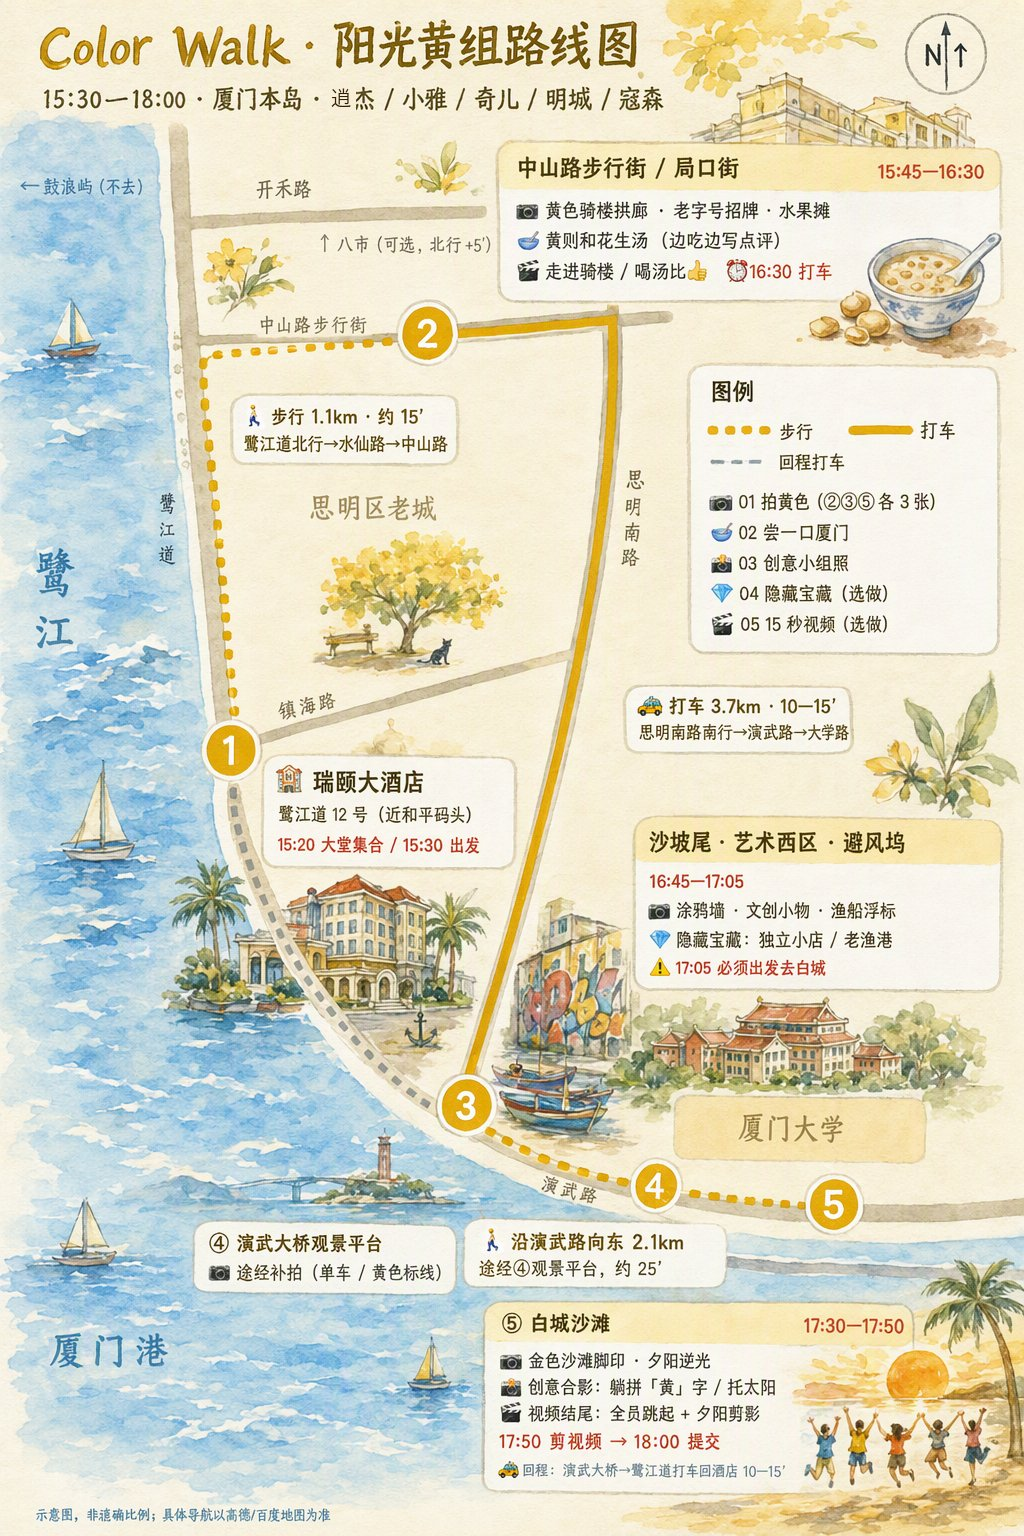
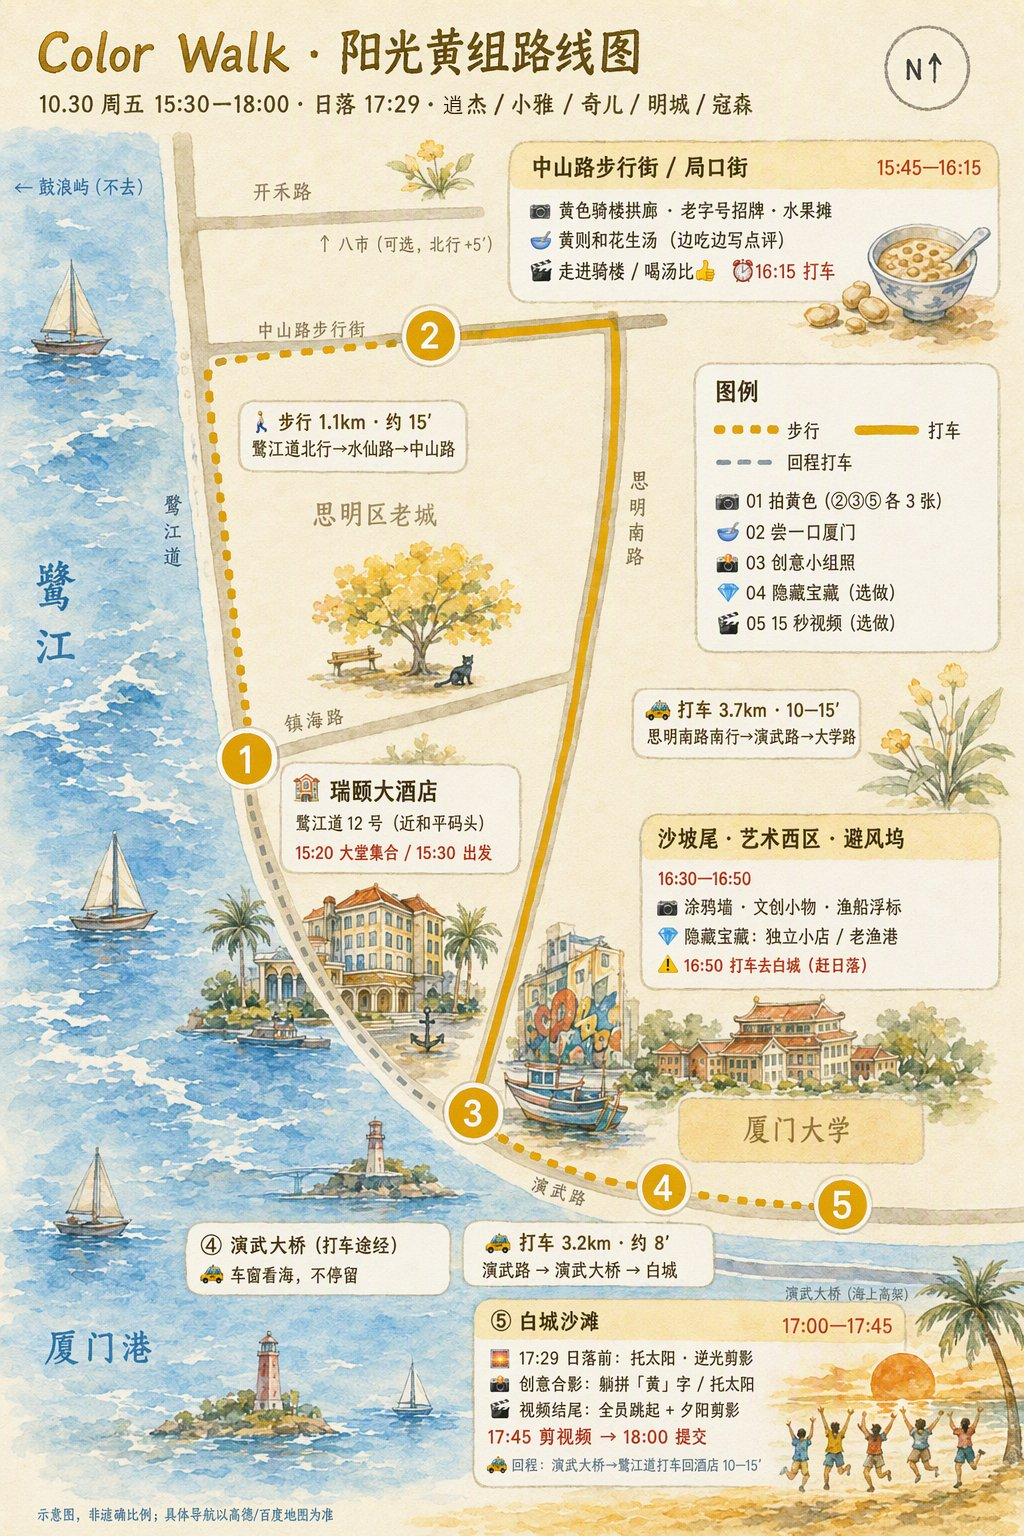
按 10.30 日落 17:29 调整时间线；沙坡尾→白城改打车；新增天气与携带清单

diff --git a/index.html b/index.html
@@ -104,6 +104,7 @@ a{color:inherit;text-decoration:none}
 .mem:last-child{border-bottom:0}
 .mem span{color:var(--sub);font-size:13px;text-align:right}
 .chk label{display:flex;gap:10px;align-items:center;padding:11px 14px;border-bottom:1px solid var(--line);font-size:14px}
+.wx{display:grid;grid-template-columns:repeat(5,1fr);gap:4px;margin-top:10px;text-align:center}.wx div{background:#fffbea;border-radius:10px;padding:6px 2px}.wx i{display:block;font-style:normal;font-size:18px}.wx b{display:block;font-size:12px}.wx span{font-size:10px;color:var(--sub)}
 .chk input{width:20px;height:20px;accent-color:var(--y3)}
 
 /* 底部 Tab */
@@ -132,7 +133,7 @@ footer{font-size:11px;color:var(--sub);text-align:center;padding:16px 18px 4px}
 <div class="app">
   <div class="hero">
     <h1>Color Walk · 阳光黄组 ☀</h1>
-    <div class="s">厦门团建 · 15:30–18:00 · 厦门本岛</div>
+    <div class="s">2026.10.30 周五 · 15:30–18:00 · 晴 25–27°C · 日落 17:29</div>
     <div class="chips"><span class="chip">👥 逍杰 · 小雅 · 奇儿 · 明城 · 寇森</span><span class="chip">🏨 瑞颐大酒店出发</span></div>
   </div>
 
@@ -166,7 +167,7 @@ const SP={
  shapowei:{n:'沙坡尾艺术西区',poi:'沙坡尾艺术西区',g:118.087587,t:24.437609,addr:'沙坡尾 60 号',what:'涂鸦墙、艺术西区门头、文创小物',how:['人站一侧 1/3，<b>涂鸦墙占 2/3</b>','文创小物<b>微距特写</b>','涂鸦墙前每人一个手势 → 视频转场'],imgs:['shapowei_1','shapowei_5','shapowei_6','shapowei_2','shapowei_3'],ai:['graffiti'],q:'沙坡尾 涂鸦墙 拍照机位'},
  bifengwu:{n:'沙坡尾避风坞',poi:'避风坞',g:118.085565,t:24.439145,addr:'沙坡尾艺术西区西侧水湾',what:'渔船、黄色浮标、老房子倒影',how:['岸边拍，<b>水面做前景</b>','渔船上的黄色浮标做主体'],imgs:['bifengwu_1','bifengwu_3','bifengwu_5'],q:'沙坡尾避风坞 拍照'},
  yanwu:{n:'演武大桥观景平台',poi:'演武大桥观景平台',g:118.090262,t:24.433305,addr:'演武大桥与演武路交叉口西南 150 米',what:'海上栈道、演武大桥、双子塔',how:['栈道栏杆做<b>引导线</b>','补拍黄色单车 / 标线','拍一段海边走路视频'],imgs:['yanwu_1','yanwu_3','yanwu_4','yanwu_5'],q:'演武大桥观景平台 拍照'},
- baicheng:{n:'白城沙滩',poi:'白城沙滩',g:118.100875,t:24.432281,addr:'大学路，厦大白城校门对面',what:'金色沙滩、夕阳、合影 & 视频结尾',how:['脚印：<b>贴地低角度</b>','夕阳：<b>逆光拍剪影</b>','一人站高处俯拍 5 人躺拼「黄」字','5 人同时起跳，连拍 / 慢动作'],imgs:['baicheng_1','baicheng_3','baicheng_4','baicheng_6','baicheng_5'],ai:['beach','jump'],q:'厦门白城沙滩 拍照 合影'},
+ baicheng:{n:'白城沙滩',poi:'白城沙滩',g:118.100875,t:24.432281,addr:'大学路，厦大白城校门对面',what:'金色沙滩、夕阳、合影 & 视频结尾',how:['<b>17:29 日落前</b>先拍：托太阳借位、逆光剪影、5 人起跳（连拍 / 慢动作）','一人站高处俯拍 5 人躺拼「黄」字','日落后余晖：脚印<b>贴地低角度</b>、沙上写「阳光黄」'],imgs:['baicheng_1','baicheng_3','baicheng_4','baicheng_6','baicheng_5'],ai:['beach','jump'],q:'厦门白城沙滩 拍照 合影'},
  xmu_west:{n:'厦大访客中心（唯一游客入口）',poi:'厦大医院(公交站)',g:118.093103,t:24.434983,addr:'大学路「厦大医院」公交站旁，访客中心南侧地面入口',what:'游客只能从访客中心刷身份证入校，校门仅限师生',how:['打车目的地填「<b>厦大医院(公交站)</b>」，不要导航到西门','下车走百来米到访客中心<b>南侧地面入口</b> → 扶梯到负一层','跟「访客通道」指示走到底 → 刷身份证 + 人脸入闸','西入口长通道很绕，别走'],imgs:['xmu_west_1'],q:'厦门大学 预约 入校'},
  qunxian:{n:'群贤楼群',poi:'厦门大学思明校区群贤楼群',g:118.095327,t:24.436677,addr:'厦大思明校区西侧',what:'嘉庚风格老建筑：红砖 + 绿瓦 + 拱廊',how:['拱廊纵深 + 对称构图','找黄色窗框 / 灯 / 标识'],imgs:['qunxian_1'],q:'厦大 群贤楼 拍照'},
  jiannan:{n:'建南大会堂 · 上弦场',poi:'厦门大学思明校区建南大会堂',g:118.097891,t:24.434409,addr:'厦大思明校区南侧，面朝大海',what:'看台 + 大会堂 + 远处大海',how:['看台高处拍，<b>大会堂做背景</b>','合影备选：全员坐看台'],imgs:['jiannan_4','jiannan_5','shangxian_1'],q:'厦大 上弦场 建南大会堂 拍照'},
@@ -176,24 +177,24 @@ const SP={
 };
 
 const P={
- p1:{theme:'从骑楼黄走到沙滩黄：中山路 → 沙坡尾 → 白城沙滩',warn:'⚠ <b>17:05 必须离开沙坡尾</b>；走得慢就直接打车去白城（约 5 分钟）。',
+ p1:{theme:'从骑楼黄走到沙滩黄：中山路 → 沙坡尾 → 白城沙滩',warn:'🌅 当天<b>日落 17:29</b>：<b>16:50 必须从沙坡尾打车去白城</b>，17:00 到沙滩先拍夕阳、托太阳和起跳，日落后再补拍脚印。',
   maps:[['route_map_real','真实路线图','高德底图 · 实测距离'],['route_map_ai','插画路线图','适合发群']],
   legs:[['🚶','A · 酒店 → 中山路','1.1 km · 约 15 分钟','出门上<b>鹭江道</b>向北（海在左手）→ 右转<b>水仙路</b> → 中山路西口 → 向东逛到局口街'],
         ['🚕','B · 中山路 → 沙坡尾','3.7 km · 10–15 分钟','在思明南路「<b>中山路</b>」公交站上车 → <b>思明南路</b>一路向南 → 演武路 / 大学路 → 沙坡尾'],
-        ['🚶','C · 沙坡尾 → 白城沙滩','2.1 km · 约 25 分钟','沿<b>演武路</b>海边向东（海在右手）→ 演武大桥观景平台 → 白城沙滩'],
+        ['🚕','C · 沙坡尾 → 白城沙滩','3.2 km · 约 8 分钟','16:50 在沙坡尾上车 → <b>演武路</b> → <b>演武大桥</b> → 白城沙滩（赶日落，不再步行）'],
         ['🚕','D · 白城 → 酒店','4.3 km · 10–15 分钟','演武大桥 → <b>鹭江道</b> → 酒店']],
-  tl:[['15:20','酒店大堂集合','分工、确认黄色单品'],['15:30','🚶 鹭江道 → 中山路','拍视频开头',1],['15:45','② 中山路 · 局口街','3 张黄 + 花生汤 + 点评'],['16:30','🚕 打车去沙坡尾','照片传共享相册',1],['16:45','③ 沙坡尾','3 张黄 + 隐藏宝藏'],['17:05','🚶 演武路 → 观景平台','沿途补拍',1],['17:30','⑤ 白城沙滩','3 张黄 + 合影 + 视频结尾'],['17:50','剪视频 · 提交','18:00 前完成'],['18:00','🚕 回酒店','',1]],
-  spots:[['②','zhongshan','15:45–16:30'],['②','huangzehe','中山路西口'],['②','jukou','中山路东段'],['+','bashi','可选 +5′'],['③','shapowei','16:45–17:05'],['③','bifengwu','16:45–17:05'],['④','yanwu','途经'],['⑤','baicheng','17:30–17:50']]},
- p2:{theme:'中山路 → 厦门大学（访客中心进 · 白城校门出）→ 白城沙滩',warn:'⚠ <b>游客只能从「厦大访客中心」刷身份证入校</b>，校门不让进。需在厦大官方公众号<b>前一天 16:00 前预约（摇号）</b>，主约人必须到场；约不上就走方案一。',
+  tl:[['15:20','酒店大堂集合','分工、确认黄色单品、涂防晒'],['15:30','🚶 鹭江道 → 中山路','拍视频开头',1],['15:45','② 中山路 · 局口街','3 张黄 + 花生汤 + 点评（30 分钟）'],['16:15','🚕 打车去沙坡尾','照片传共享相册',1],['16:30','③ 沙坡尾','3 张黄 + 隐藏宝藏（20 分钟）'],['16:50','🚕 打车去白城（约 8 分钟）','赶 17:29 日落',1],['17:00','⑤ 白城沙滩 · 日落前','托太阳 / 逆光剪影 / 起跳 / 躺拼「黄」字'],['17:29','🌅 日落','余晖补拍：沙滩脚印、3 张黄'],['17:45','剪视频 · 提交','18:00 前完成'],['18:00','🚕 回酒店','',1]],
+  spots:[['②','zhongshan','15:45–16:15'],['②','huangzehe','中山路西口'],['②','jukou','中山路东段'],['+','bashi','可选 +5′'],['③','shapowei','16:30–16:50'],['③','bifengwu','16:30–16:50'],['④','yanwu','打车途经 · 本方案不停'],['⑤','baicheng','17:00–17:45 · 日落 17:29']]},
+ p2:{theme:'中山路 → 厦门大学（访客中心进 · 白城校门出）→ 白城沙滩',warn:'🌅 日落 17:29，<b>17:05 必须从白城校门出校</b>。⚠ <b>游客只能从「厦大访客中心」刷身份证入校</b>，校门不让进。需在厦大官方公众号<b>前一天 16:00 前预约（摇号）</b>，主约人必须到场；约不上就走方案一。',
   maps:[['route_map_real_xmu','真实路线图','高德底图 · a–e 校内点'],['route_map_xmu_ai','插画路线图','适合发群']],
   legs:[['🚶','A · 酒店 → 中山路','1.1 km · 约 15 分钟','同方案一：<b>鹭江道</b>向北 → <b>水仙路</b> → 中山路 → 局口街'],
         ['🚕','B · 中山路 → 厦大访客中心','3.1 km · 10–15 分钟','思明南路「<b>中山路</b>」公交站上车，目的地填「<b>厦大医院(公交站)</b>」→ 思明南路 → 演武路 → 大学路'],
         ['🚶','V · 访客中心入校','约 150 m · 5 分钟','南侧地面入口 → 扶梯到<b>负一层</b> → 访客通道 → 刷身份证闸机'],
-        ['🚶','C · 厦大校内','2.4 km · 约 35 分钟','群贤楼群 → 芙蓉湖 / 颂恩楼 → 建南大会堂 / 上弦场 → 芙蓉隧道 → <b>白城校门</b>出校（出校任意门都可）'],
+        ['🚶','C · 厦大校内','1.7 km · 约 22 分钟','<b>芙蓉湖 / 颂恩楼</b> → <b>芙蓉隧道</b> → <b>白城校门</b>出校；群贤楼、上弦场时间够再绕'],
         ['🚶','E · 白城校门 → 沙滩','150 m · 2 分钟','出校门过<b>大学路</b>'],
         ['🚕','D · 白城 → 酒店','4.3 km · 10–15 分钟','演武大桥 → <b>鹭江道</b> → 酒店']],
-  tl:[['15:20','酒店大堂集合','确认身份证 + 预约码'],['15:30','🚶 鹭江道 → 中山路','拍视频开头',1],['15:45','② 中山路 · 局口街','3 张黄 + 花生汤 + 隐藏宝藏'],['16:25','🚕 打车到「厦大医院」站','',1],['16:40','③ 访客中心刷证入校','南入口 → 负一层 → 闸机'],['16:45','厦大校内 a → e','3 张黄 + 隧道视频素材'],['17:30','④ 白城沙滩','3 张黄 + 合影 + 视频结尾'],['17:50','剪视频 · 提交','18:00 前完成'],['18:00','🚕 回酒店','',1]],
-  spots:[['②','zhongshan','15:45–16:25'],['②','huangzehe','中山路西口'],['②','jukou','隐藏宝藏'],['③','xmu_west','16:40 入校'],['a','qunxian','校内'],['b','furonghu','校内'],['c','jiannan','校内'],['d','furongsd','校内'],['e','baichengmen','17:25 出校'],['④','baicheng','17:30–17:50']]},
+  tl:[['15:20','酒店大堂集合','确认身份证 + 预约码、涂防晒'],['15:30','🚶 鹭江道 → 中山路','拍视频开头',1],['15:45','② 中山路 · 局口街','3 张黄 + 花生汤 + 隐藏宝藏（30 分钟）'],['16:15','🚕 打车到「厦大医院」站','',1],['16:30','③ 访客中心刷证入校','南入口 → 负一层 → 闸机'],['16:35','厦大校内','芙蓉湖 → 芙蓉隧道 · 3 张黄 + 视频素材'],['17:05','白城校门出校','过大学路 150 m',1],['17:10','④ 白城沙滩 · 日落前','托太阳 / 逆光剪影 / 起跳 / 躺拼「黄」字'],['17:29','🌅 日落','余晖补拍：沙滩脚印、3 张黄'],['17:45','剪视频 · 提交','18:00 前完成'],['18:00','🚕 回酒店','',1]],
+  spots:[['②','zhongshan','15:45–16:15'],['②','huangzehe','中山路西口'],['②','jukou','隐藏宝藏'],['③','xmu_west','16:30 入校'],['b','furonghu','16:35 · 必去'],['d','furongsd','16:50 · 必去'],['e','baichengmen','17:05 出校'],['④','baicheng','17:10–17:45 · 日落 17:29'],['a','qunxian','可选 · 时间够再绕'],['c','jiannan','可选 · 时间够再绕']]},
 };
 
 function planHTML(id){
@@ -226,13 +227,13 @@ function planHTML(id){
 }
 document.getElementById('v-p1').innerHTML=planHTML('p1');
 document.getElementById('v-p2').innerHTML=planHTML('p2');
-document.getElementById('v-task').innerHTML=`<div class="seg"><div class="in"><button class="on" data-p="t1">🎯 任务</button><button data-p="t2">👥 分工</button><button data-p="t3">☑ 清单</button></div></div>
+document.getElementById('v-task').innerHTML=`<div class="seg"><div class="in"><button class="on" data-p="t1">🎯 任务</button><button data-p="t2">👥 分工</button><button data-p="t4">🎒 携带</button><button data-p="t3">☑ 清单</button></div></div>
 <div class="pane on task" data-p="t1">
  <div class="card"><div class="pad"><span class="badge">01 必做</span><b>寻找你的颜色</b><p>3 个场景各拍 3 张黄色，共 9 张，统一竖图拼九宫格；黄色占画面 ≥ 1/3。</p></div></div>
  <div class="card"><div class="pad"><span class="badge">02 必做</span><b>尝一口厦门</b><p>黄则和花生汤（中山路总店），店名带「黄」。点评：⭐ 评分 + 颜值 + 口感 + 一句话 + 适合谁。</p></div></div>
- <div class="card"><div class="pad"><span class="badge">03 必做</span><b>我们的厦门时刻</b><p>白城沙滩：躺拼「黄」字俯拍 / 借位托夕阳 / 沙上写「阳光黄」/ 全员起跳。路上先定 1 主 1 备。</p></div></div>
+ <div class="card"><div class="pad"><span class="badge">03 必做</span><b>我们的厦门时刻</b><p>白城沙滩，<b>17:29 日落前</b>拍：借位托夕阳 / 逆光起跳 / 躺拼「黄」字俯拍；日落后沙上写「阳光黄」。路上先定 1 主 1 备。</p></div></div>
  <div class="card"><div class="pad"><span class="badge o">04 选做</span><b>发现隐藏宝藏</b><p>方案一：沙坡尾独立小店 / 老渔港；方案二：局口街老巷。照片 + 3 句推荐理由。</p></div></div>
- <div class="card"><div class="pad"><span class="badge o">05 选做</span><b>15 秒厦门</b><p>骑楼走入 → 喝汤比赞 → 涂鸦/隧道转场 → 黄色快闪 → 沙滩起跳 + 字幕「阳光黄 ☀」。17:50 开剪。</p></div></div>
+ <div class="card"><div class="pad"><span class="badge o">05 选做</span><b>15 秒厦门</b><p>骑楼走入 → 喝汤比赞 → 涂鸦/隧道转场 → 黄色快闪 → 沙滩起跳 + 字幕「阳光黄 ☀」。17:45 开剪。</p></div></div>
 </div>
 <div class="pane" data-p="t2"><div class="card">
  <div class="mem"><b>逍杰 · 组长</b><span>统筹计时、带路、汇总提交</span></div>
@@ -241,11 +242,29 @@ document.getElementById('v-task').innerHTML=`<div class="seg"><div class="in"><b
  <div class="mem"><b>明城 · 摄影 B</b><span>05 视频拍摄与剪辑</span></div>
  <div class="mem"><b>寇森 · 探店官</b><span>04 隐藏宝藏 + 03 合影构图</span></div>
 </div></div>
+<div class="pane" data-p="t4">
+ <div class="card"><div class="pad"><b>☀ 10.30 周五 · 厦门天气</b>
+  <div class="wx"><div><i>☀</i><b>晴</b><span>降水 0%</span></div><div><i>🌡</i><b>25–27°C</b><span>傍晚 24°C</span></div><div><i>🌬</i><b>3 级风</b><span>海边傍晚凉</span></div><div><i>🕶</i><b>紫外线强</b><span>UV 6.6</span></div><div><i>🌅</i><b>17:29</b><span>日落</span></div></div>
+  <p style="font-size:12px;color:var(--sub);margin:6px 0 0">Open-Meteo 预报（10.27 查询），出发前再看一眼</p></div></div>
+ <div class="h">👕 穿什么</div><div class="card">
+  <div class="mem"><b>上衣</b><span>短袖 T 恤，<b>每人 1 件黄色单品</b></span></div>
+  <div class="mem"><b>外搭</b><span>薄长袖衬衫 / 防晒衣（下午挡晒，傍晚海边加）</span></div>
+  <div class="mem"><b>下装</b><span>短裤 / 轻薄长裤；要躺拼字，裤装更方便</span></div>
+  <div class="mem"><b>鞋</b><span>舒适运动鞋（步行 3–4 km + 沙滩），可备拖鞋</span></div>
+ </div>
+ <div class="h">🎒 带什么</div><div class="card chk">
+  ${[['防晒霜 SPF50（出发前涂好）','p0'],['墨镜 + 帽子（黄色帽子 = 现成道具）','p1'],['身份证（方案二入校必带）','p2'],['一瓶水','p3'],['湿巾 / 小毛巾（清理沙子）','p4'],['小双肩包 / 斜挎包，行李寄存酒店','p5'],['驱蚊液（方案二厦大树多，可选）','p6']].map(([t,k])=>`<label><input type="checkbox" data-k="${k}">${t}</label>`).join('')}
+ </div>
+ <div class="h">📸 全组装备</div><div class="card chk">
+  ${[['手机三脚架 / 自拍杆 ×1（合影 + 起跳必备）','g0'],['充电宝 ×2','g1'],['黄色道具：气球 / 丝巾 / 柠檬茶（可选）','g2'],['剪映装好 + 模板选好','g3'],['共享相册建好','g4']].map(([t,k])=>`<label><input type="checkbox" data-k="${k}">${t}</label>`).join('')}
+ </div>
+ <div class="note y">不用带：雨伞（降水 0%）、厚外套。</div>
+</div>
 <div class="pane chk" data-p="t3">
  <div class="h">提交清单</div><div class="card">
  ${['01 九宫格 9 张黄色','02 美食照片 + 点评','03 创意小组照','04 隐藏宝藏 + 推荐理由','05 15 秒视频'].map((t,i)=>`<label><input type="checkbox" data-k="c${i}">${t}</label>`).join('')}</div>
  <div class="h">出发前</div><div class="card">
- ${['每人 1 件黄色单品','防晒 + 水 + 充电宝','建好共享相册','剪映模板选好','（方案二）厦大预约码 + 身份证'].map((t,i)=>`<label><input type="checkbox" data-k="b${i}">${t}</label>`).join('')}</div>
+ ${['每人 1 件黄色单品','（方案二）前一天 16:00 前完成厦大预约摇号','（方案二）主约人确认到场 + 全员身份证','16:50 / 17:05 闹钟（赶 17:29 日落）'].map((t,i)=>`<label><input type="checkbox" data-k="b${i}">${t}</label>`).join('')}</div>
  <div class="note y">下雨：中山路骑楼有廊可避雨，沙滩合影改骑楼下。沙滩不下深水，注意涨潮。</div>
 </div>`;
 
